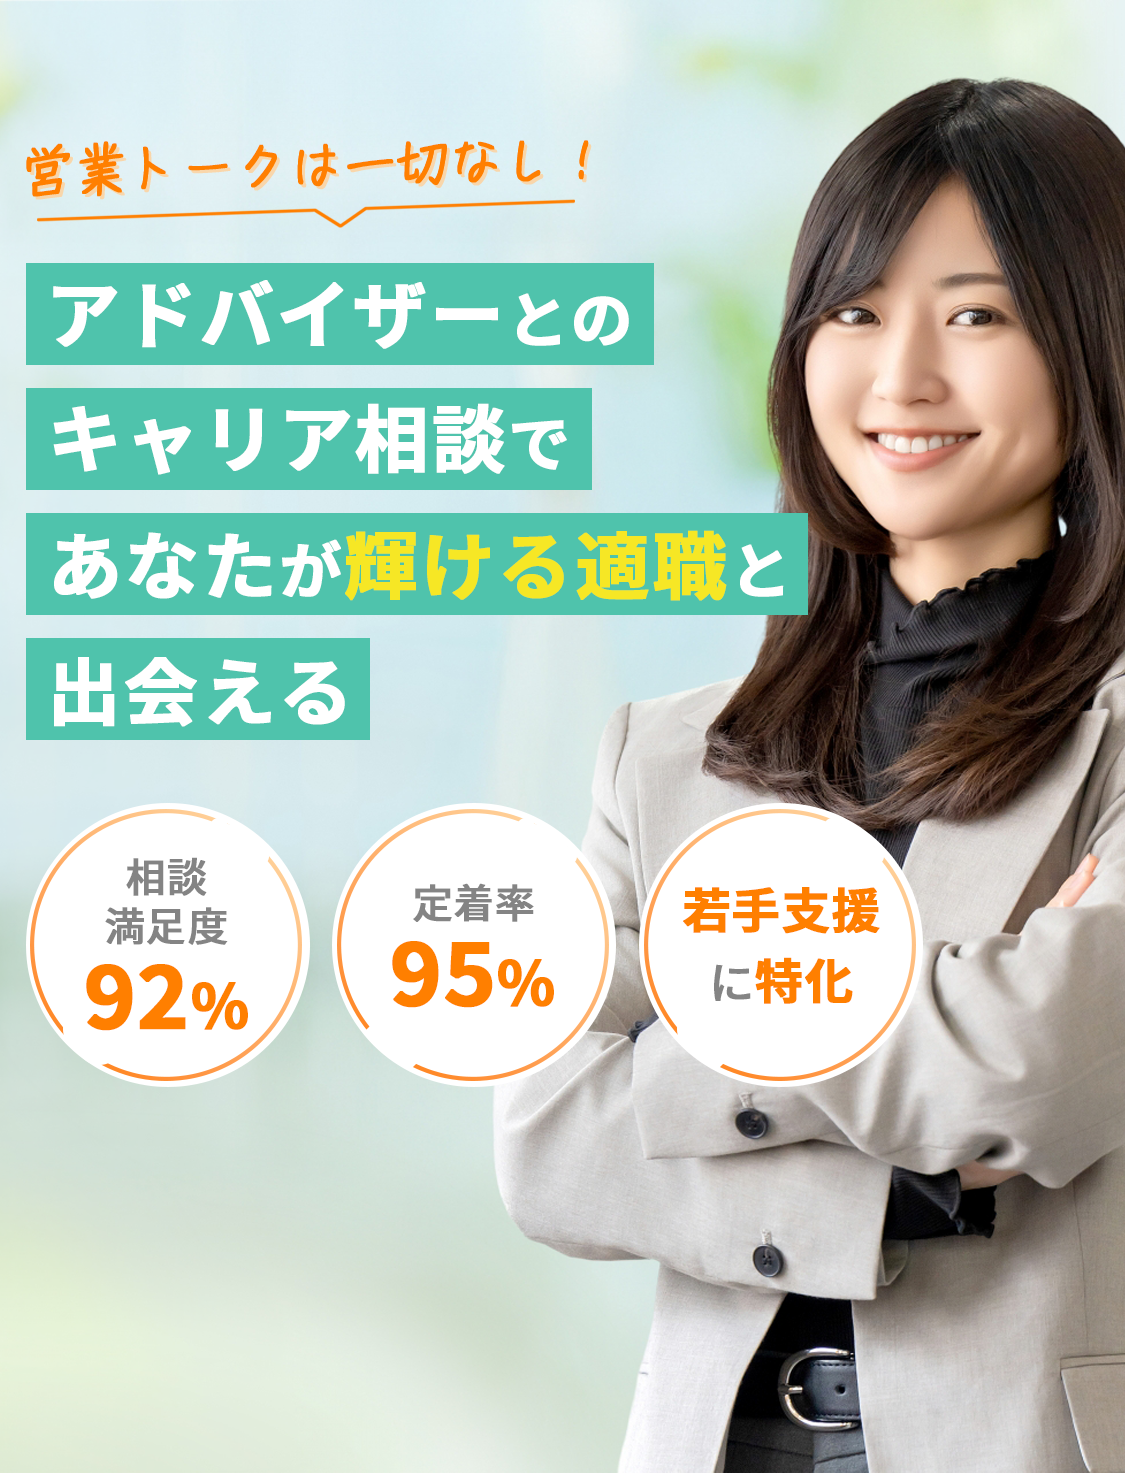
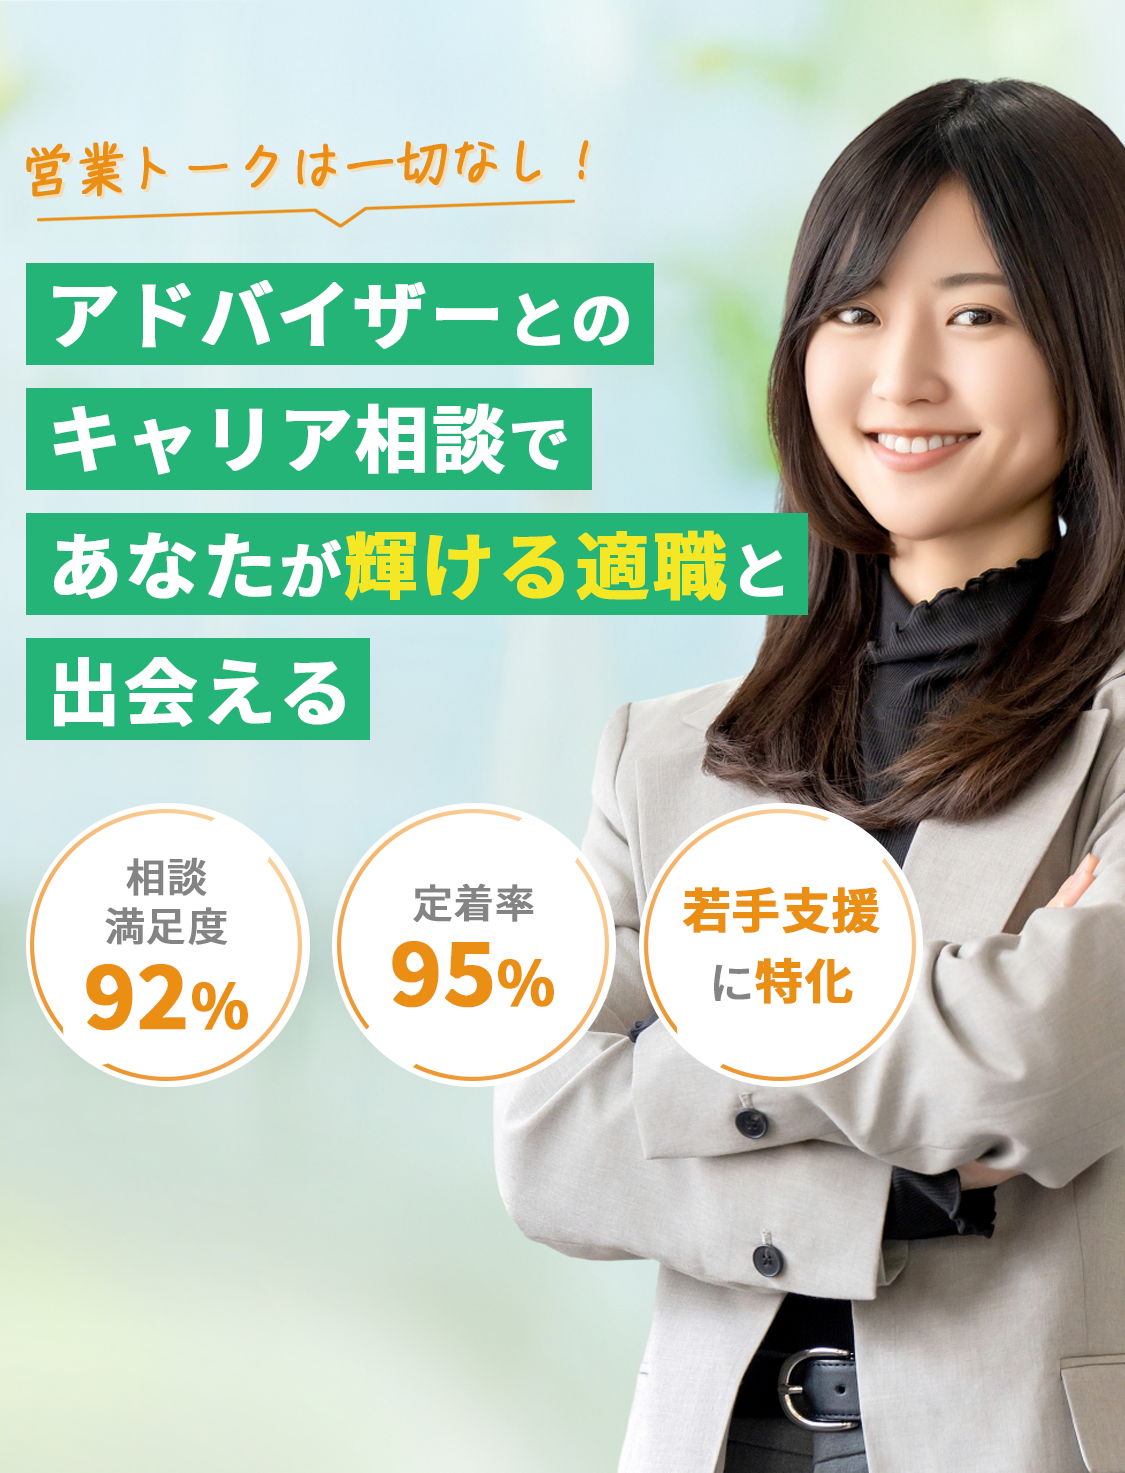
Add files via upload

Changed region(s): [[0.0, 0.1561, 0.7156, 0.4997]]

diff --git a/css/styleA.min2.css b/css/styleA.min2.css
@@ -688,7 +688,7 @@ Ensure the default browser behavior of the `hidden` attribute.
 
 .border-\[\#659ed8\] {
   --tw-border-opacity: 1;
-  border-color: #4fc3ac;
+  border-color: #24b478;
 }
 
 .border-\[\#cfd3d7\] {
@@ -735,9 +735,9 @@ Ensure the default browser behavior of the `hidden` attribute.
   background-color: transparent;
 }
 
-.bg-\[\#ff7f02\] {
+.bg-\[\#ea8f14\] {
   --tw-bg-opacity: 1;
-  background-color: #ff7f02;
+  background-color: #ea8f14;
 }
 
 .bg-blue-300 {
@@ -827,7 +827,7 @@ Ensure the default browser behavior of the `hidden` attribute.
 
 .text-\[\#659ed8\] {
   --tw-text-opacity: 1;
-  color: #4fc3ac;
+  color: #24b478;
   display: flex;
   justify-content: center;
     align-items: center;
@@ -849,9 +849,9 @@ Ensure the default browser behavior of the `hidden` attribute.
   color: rgb(166 168 170 / var(--tw-text-opacity));
 }
 
-.text-\[\#ff7f02\] {
+.text-\[\#ea8f14\] {
   --tw-text-opacity: 1;
-  color: #ff7f02;
+  color: #ea8f14;
 }
 
 .text-\[\#d4a9db\] {
@@ -1020,7 +1020,7 @@ html {
 }
 
 .num_active {
-  background: #ff7f02;
+  background: #ea8f14;
 }
 
 .prev_active {
@@ -1039,7 +1039,7 @@ html {
 }
 
 .text_active {
-  color: #ff7f02;
+  color: #ea8f14;
 }
 
 .mainbg {
@@ -1236,7 +1236,7 @@ html {
 
 .before\:right-o-8::before {
   content: var(--tw-content);
-  right: 0.08rem;
+  right: 1.1rem;
 }
 
 
